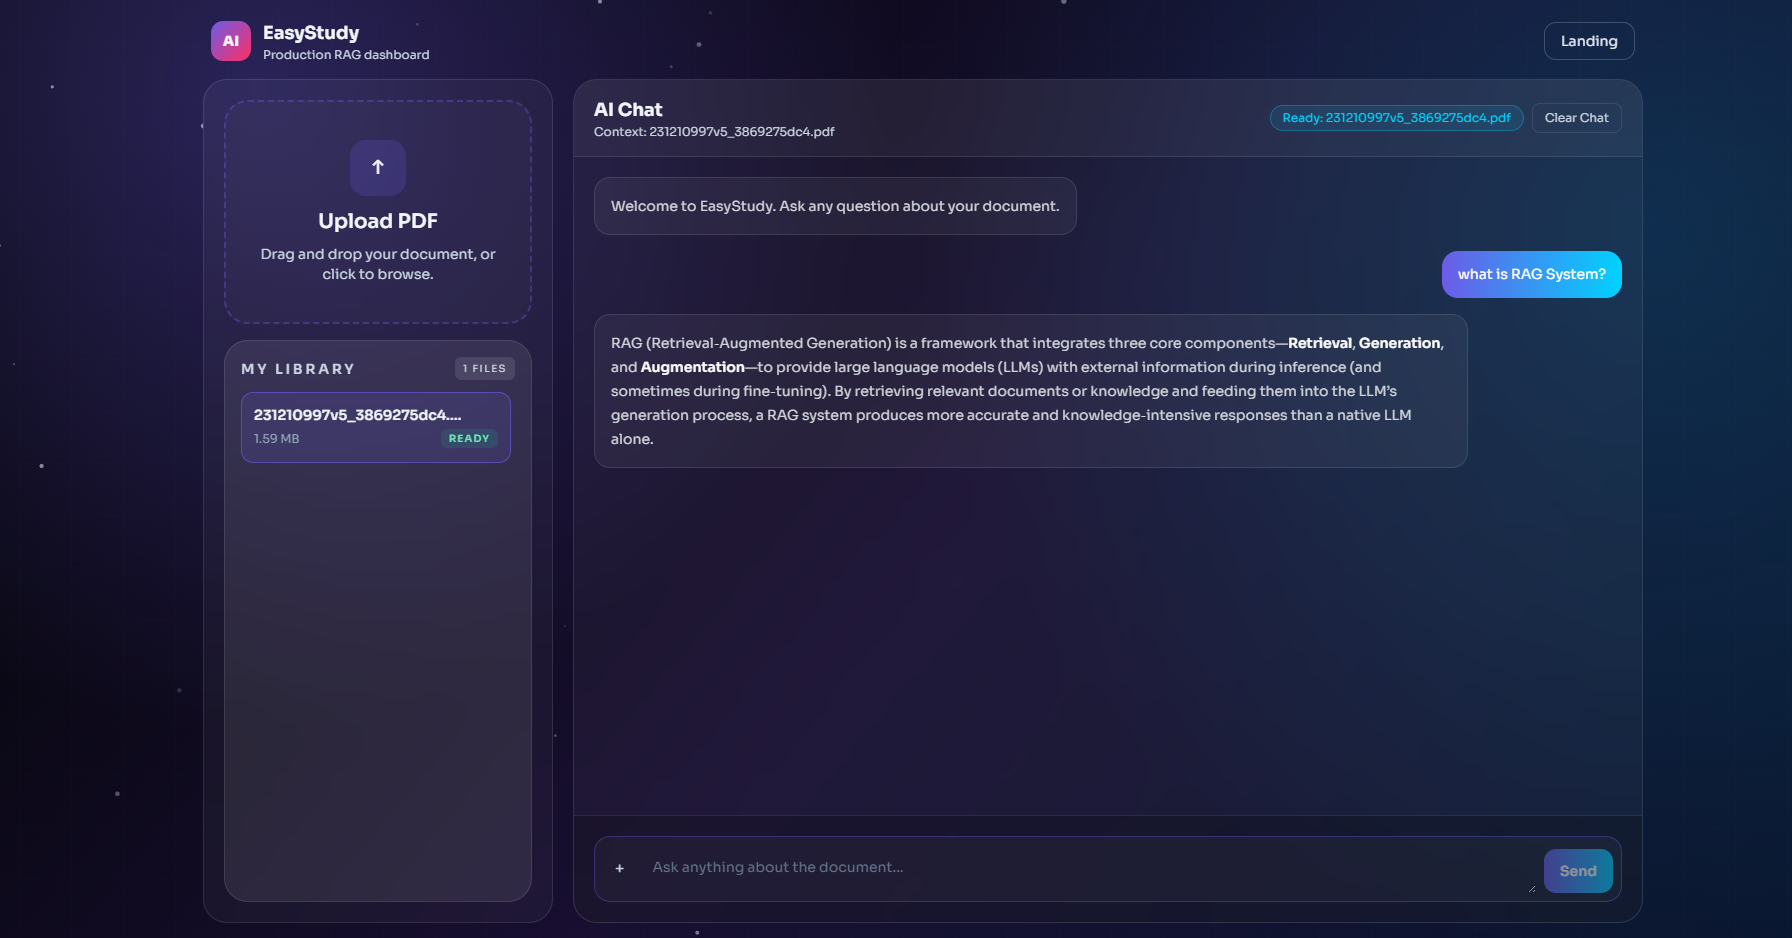
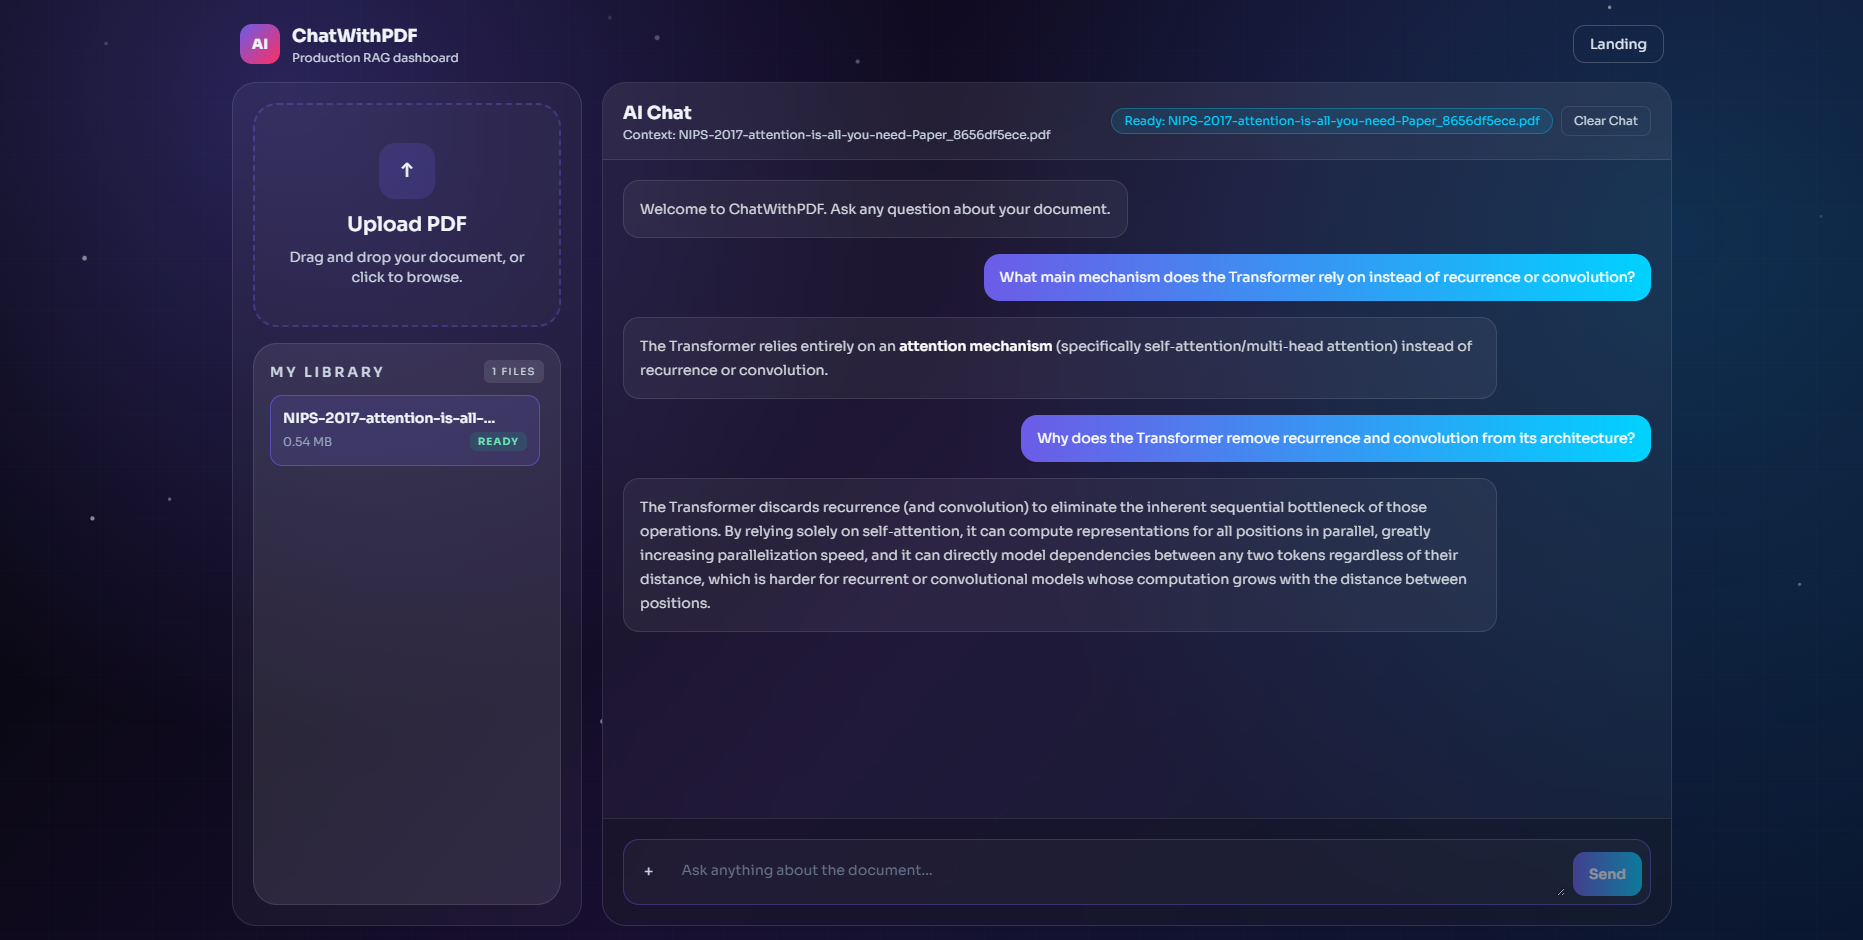
update .gitignore

diff --git a/frontend/app/dashboard/page.tsx b/frontend/app/dashboard/page.tsx
@@ -23,7 +23,7 @@ type ChatMessage = {
 const welcomeMessage: ChatMessage = {
   role: "assistant",
   content:
-    "Welcome to EasyStudy. Ask any question about your document.",
+    "Welcome to ChatWithPDF. Ask any question about your document.",
 };
 
 const apiBase = (process.env.NEXT_PUBLIC_API_BASE ?? "http://127.0.0.1:8000").replace(/\/$/, "");
@@ -233,7 +233,7 @@ export default function DashboardPage() {
             AI
           </div>
           <div>
-            <p className="text-lg font-bold">EasyStudy</p>
+            <p className="text-lg font-bold">ChatWithPDF</p>
             <p className="text-xs text-slate-300">Production RAG dashboard</p>
           </div>
         </div>
